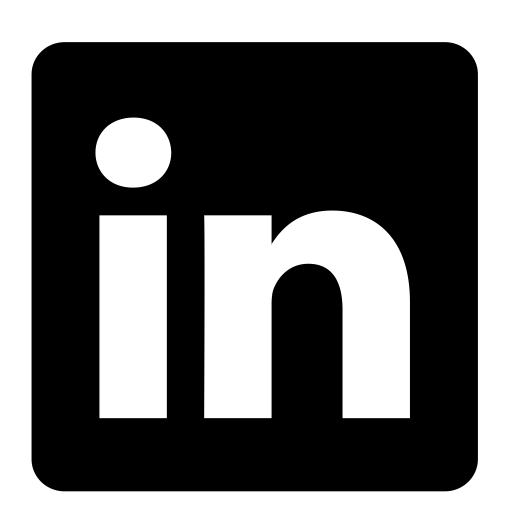
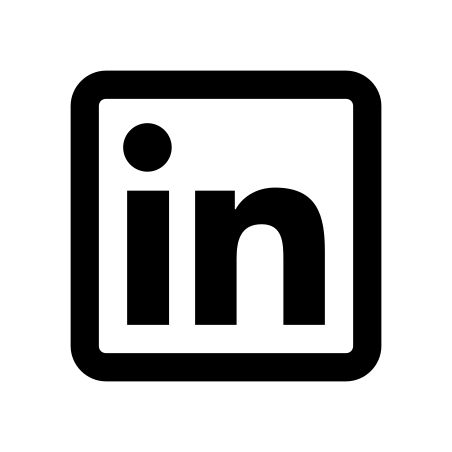
year fixed, codepen portfolio added

diff --git a/contatti/index.html b/contatti/index.html
@@ -71,10 +71,11 @@
         <p><h1>Contatti</h1><br></p>
         <p>Puoi trovarmi qui:</p>
     <div align="center" id=icone>
-        <a href="https://t.me/davide_des"><img src="../icons/telegram.png" width="45" height="45" alt="telegram_img" title="t.me/davide_de"/></a>
+        <a href="https://t.me/davide_de"><img src="../icons/telegram.png" width="45" height="45" alt="telegram_img" title="t.me/davide_de"/></a>
         <a href="https://github.com/HelloDavideDeSimone"><img src="../icons/github.png" width="60" height="60" alt="github_img" title="github.com/HelloDavideDeSimone"/></a>
         <a href="https://www.instagram.com/davidedesimone96/"><img src="../icons/instagram.png" width="60" height="60" alt="instagram_img" title="instagram.com/davidedesimone96/"/></a>
         <a href="skype:davide.desimone.34?chat"><img src="../icons/skype.png" width="60" height="60" alt="skype_img" title="davide.desimone.34"/></a>
+        <a href="https://www.linkedin.com/in/davide-de-simone-00b676119/"><img src="../icons/linkedin.png" width="60" height="60" alt="linkedin_img" title="davide-de-simone-00b676119"/></a>
     </div>
 
     <br>
@@ -111,7 +112,7 @@
 </div>
 <div id="push"> </div>
 <footer id="bottom" style="padding-bottom: 2em;">
-    Copyright &copy; 2020 Davide De Simone
+    Copyright &copy; 2021 Davide De Simone
 </footer>
 </footer>
 

diff --git a/projects/index.html b/projects/index.html
@@ -88,21 +88,22 @@
   <br>
   <h3>Informatica</h3>
   
-  <!--
-  <article class="archive-item">
-      <a href="../projects/website/" class="archive-item-link">Il mio sito web</a>
-      <span class="archive-item-date">
-          Giugno 2020
-      </span>
-  </article>
--->
+ 
+
+
   <article class="archive-item">
     <a href="../projects/nodeschool/" class="archive-item-link">Impara Node con nodeschool.io!</a> </a>
     <span class="archive-item-date">
         Giugno 2020
     </span>
 </article>
-  
+
+<article class="archive-item">
+    <a href="https://codepen.io/hellodavidedesimone/full/yLJRjaG" class="archive-item-link">Portfolio "Responsive Web Design"</a>
+    <span class="archive-item-date">
+        Ottobre 2020
+    </span>
+</article>
   <br>
   <h3>Varie</h3>
 
@@ -138,7 +139,7 @@
     <div id="push"> </div>
          <footer id="bottom" class="text-center">
             <div class="col-12">
-            Copyright &copy; 2020 Davide De Simone
+            Copyright &copy; 2021 Davide De Simone
             </div>
         </footer>
 

diff --git a/projects/tx_cw/index.html b/projects/tx_cw/index.html
@@ -183,7 +183,7 @@ out <span style="color: #333333">=</span> fopen(<span style="background-color: #
 </div> 
 
          <footer id="bottom" class="text-center">
-            <div class="col-12">Copyright &copy; 2020 Davide De Simone
+            <div class="col-12">Copyright &copy; 2021 Davide De Simone
             </div>
         </footer>
 

diff --git a/projects/BFtransmitter/index.html b/projects/BFtransmitter/index.html
@@ -81,7 +81,7 @@
 
          <footer id="bottom" class="row text-center fixed-bottom">
             <div class="col-12">
-            Copyright &copy; 2020 Davide De Simone
+            Copyright &copy; 2021 Davide De Simone
             </div>
         </footer>
 <script src="../../js/gsap.min.js"></script>

diff --git a/projects/bikerestoration/index.html b/projects/bikerestoration/index.html
@@ -161,7 +161,7 @@
 
  <div id="push"> </div>
          <footer id="bottom" class="text-center">
-            <div class="col-12">Copyright &copy; 2020 Davide De Simone
+            <div class="col-12">Copyright &copy; 2021 Davide De Simone
             </div>
         </footer>
 

diff --git a/projects/pizza/index.html b/projects/pizza/index.html
@@ -202,7 +202,7 @@
 
 
          <footer id="bottom" class="text-center">
-            <div class="col-12">Copyright &copy; 2020 Davide De Simone
+            <div class="col-12">Copyright &copy; 2021 Davide De Simone
             </div>
         </footer>
 

diff --git a/me/index.html b/me/index.html
@@ -98,7 +98,7 @@
     <div id="push"> </div>
     <footer id="bottom" class="text-center">
         <div class="col-12">
-            Copyright &copy; 2020 Davide De Simone
+            Copyright &copy; 2021 Davide De Simone
         </div>
     </footer>
 

diff --git a/projects/nodeschool/index.html b/projects/nodeschool/index.html
@@ -159,7 +159,7 @@
 
          <footer id="bottom" class="text-center">
             <div class="col-12">
-            Copyright &copy; 2020 Davide De Simone
+            Copyright &copy; 2021 Davide De Simone
             </div>
         </footer>
 

diff --git a/index.html b/index.html
@@ -102,7 +102,7 @@
 <div id="push"> </div>
 
 <footer id="bottom">
-    Copyright &copy; 2020 Davide De Simone
+    Copyright &copy; 2021 Davide De Simone
 </footer>
 
 
